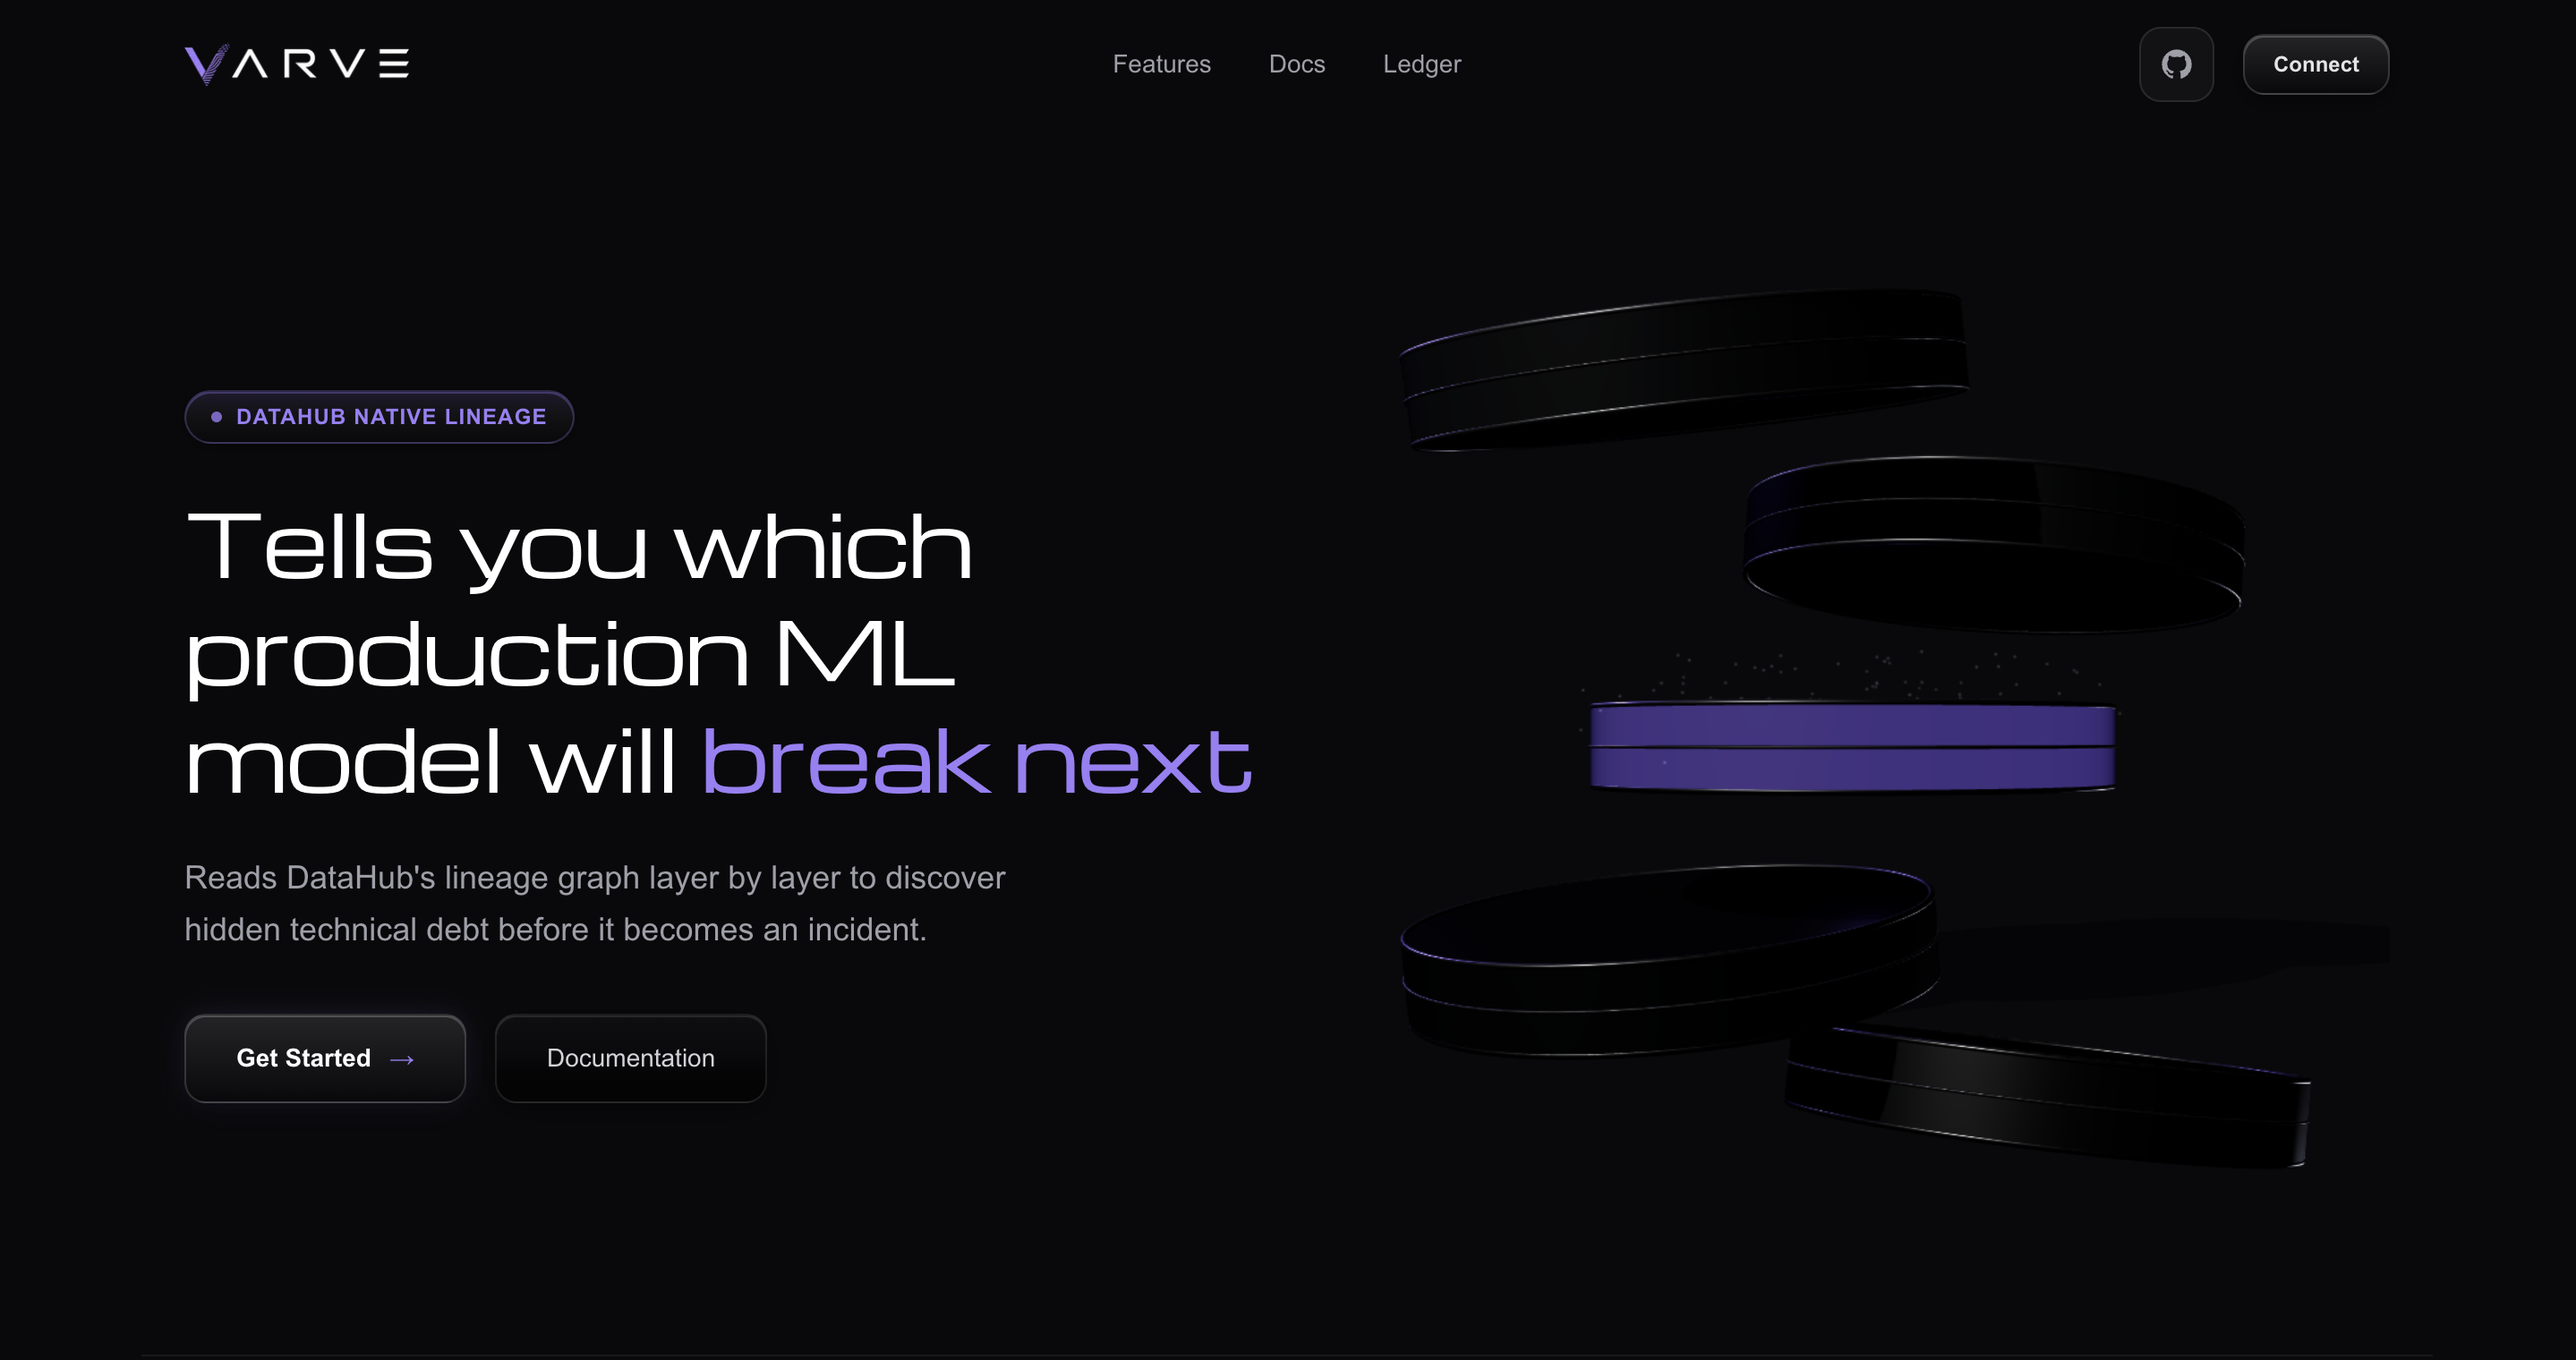
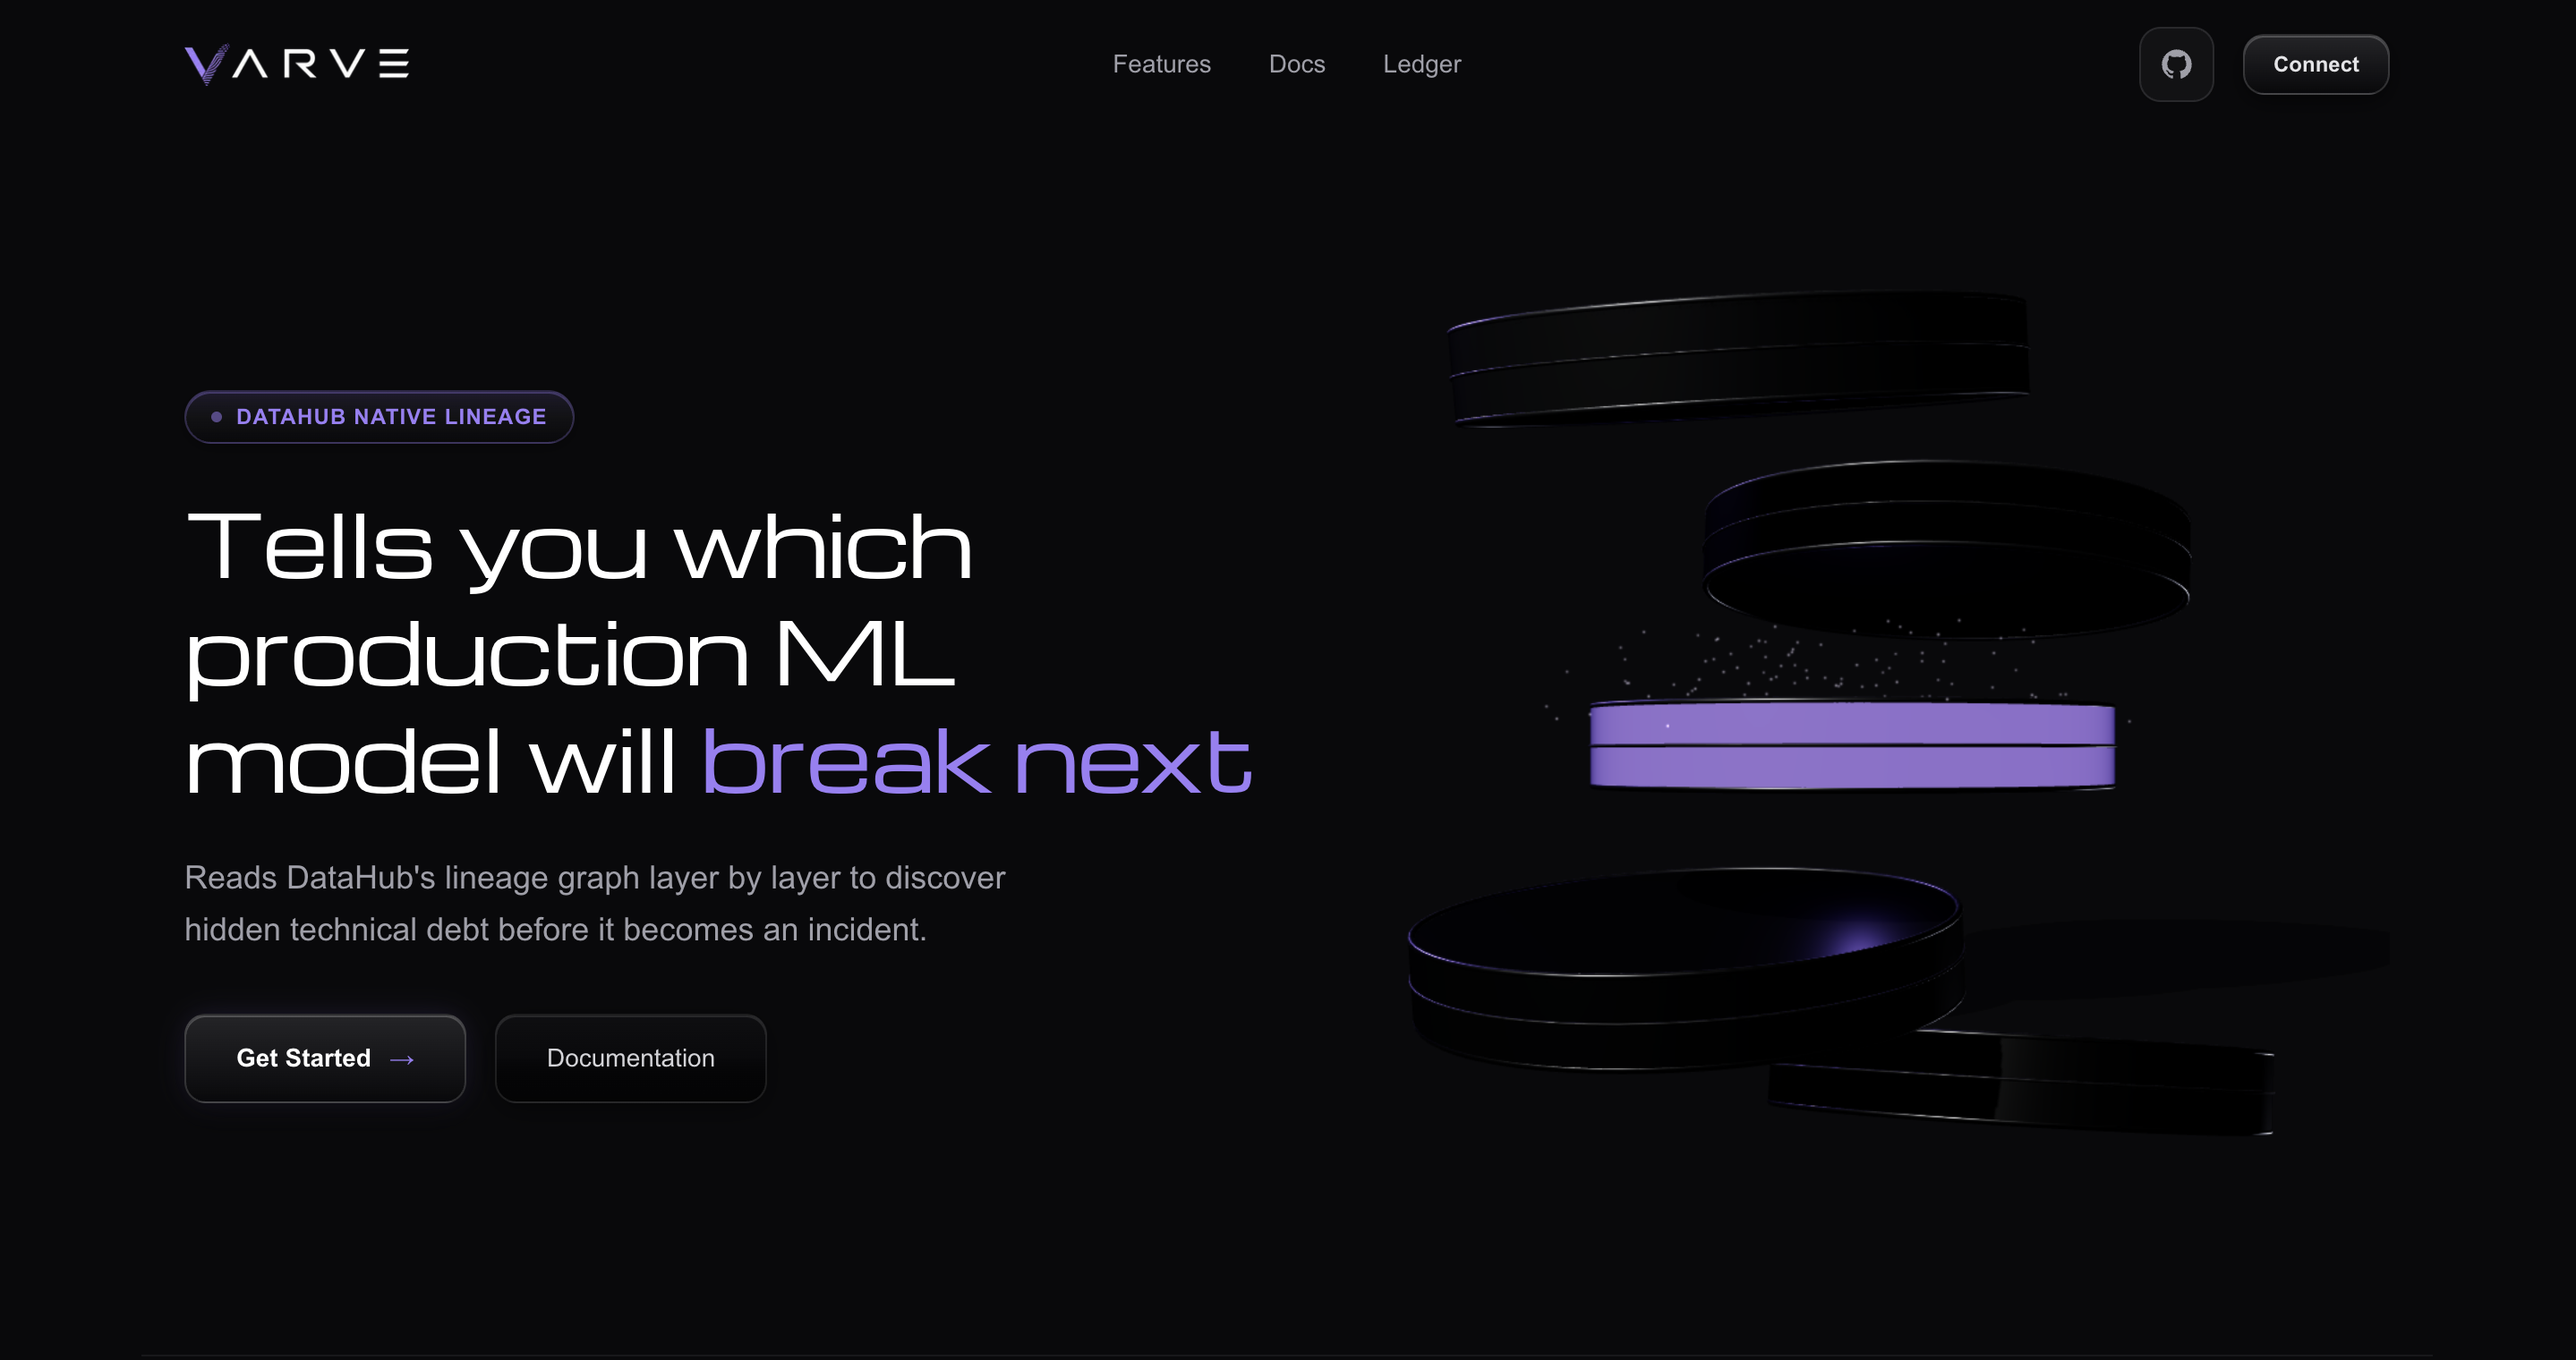
style: update site title dash character and optimize metadata description text

diff --git a/app/app/layout.tsx b/app/app/layout.tsx
@@ -21,16 +21,16 @@ const geistMono = Geist_Mono({
 
 export const metadata: Metadata = {
   metadataBase: new URL(process.env.NEXT_PUBLIC_FRONTEND_URL || "https://datavarve.xyz"),
-  title: "Varve — AI Risk & Decision Intelligence Platform",
+  title: "Varve - AI Risk & Decision Intelligence Platform",
   description:
-    "Catch silent, undocumented ML pipeline debt before it becomes an incident — ranked by empirical precedent, honestly labeled by evidence tier, and ledgered.",
+    "Catch silent, undocumented ML pipeline debt before it becomes an incident, ranked by empirical precedent, honestly labeled by evidence tier, and ledgered.",
   icons: {
     icon: "/varve_logo.png",
     shortcut: "/varve_logo.png",
     apple: "/varve_logo.png",
   },
   openGraph: {
-    title: "Varve — AI Risk & Decision Intelligence Platform",
+    title: "Varve - AI Risk & Decision Intelligence Platform",
     description:
       "Catch silent, undocumented ML pipeline debt before it becomes an incident — ranked by empirical precedent, honestly labeled by evidence tier, and ledgered.",
     siteName: "Varve",
